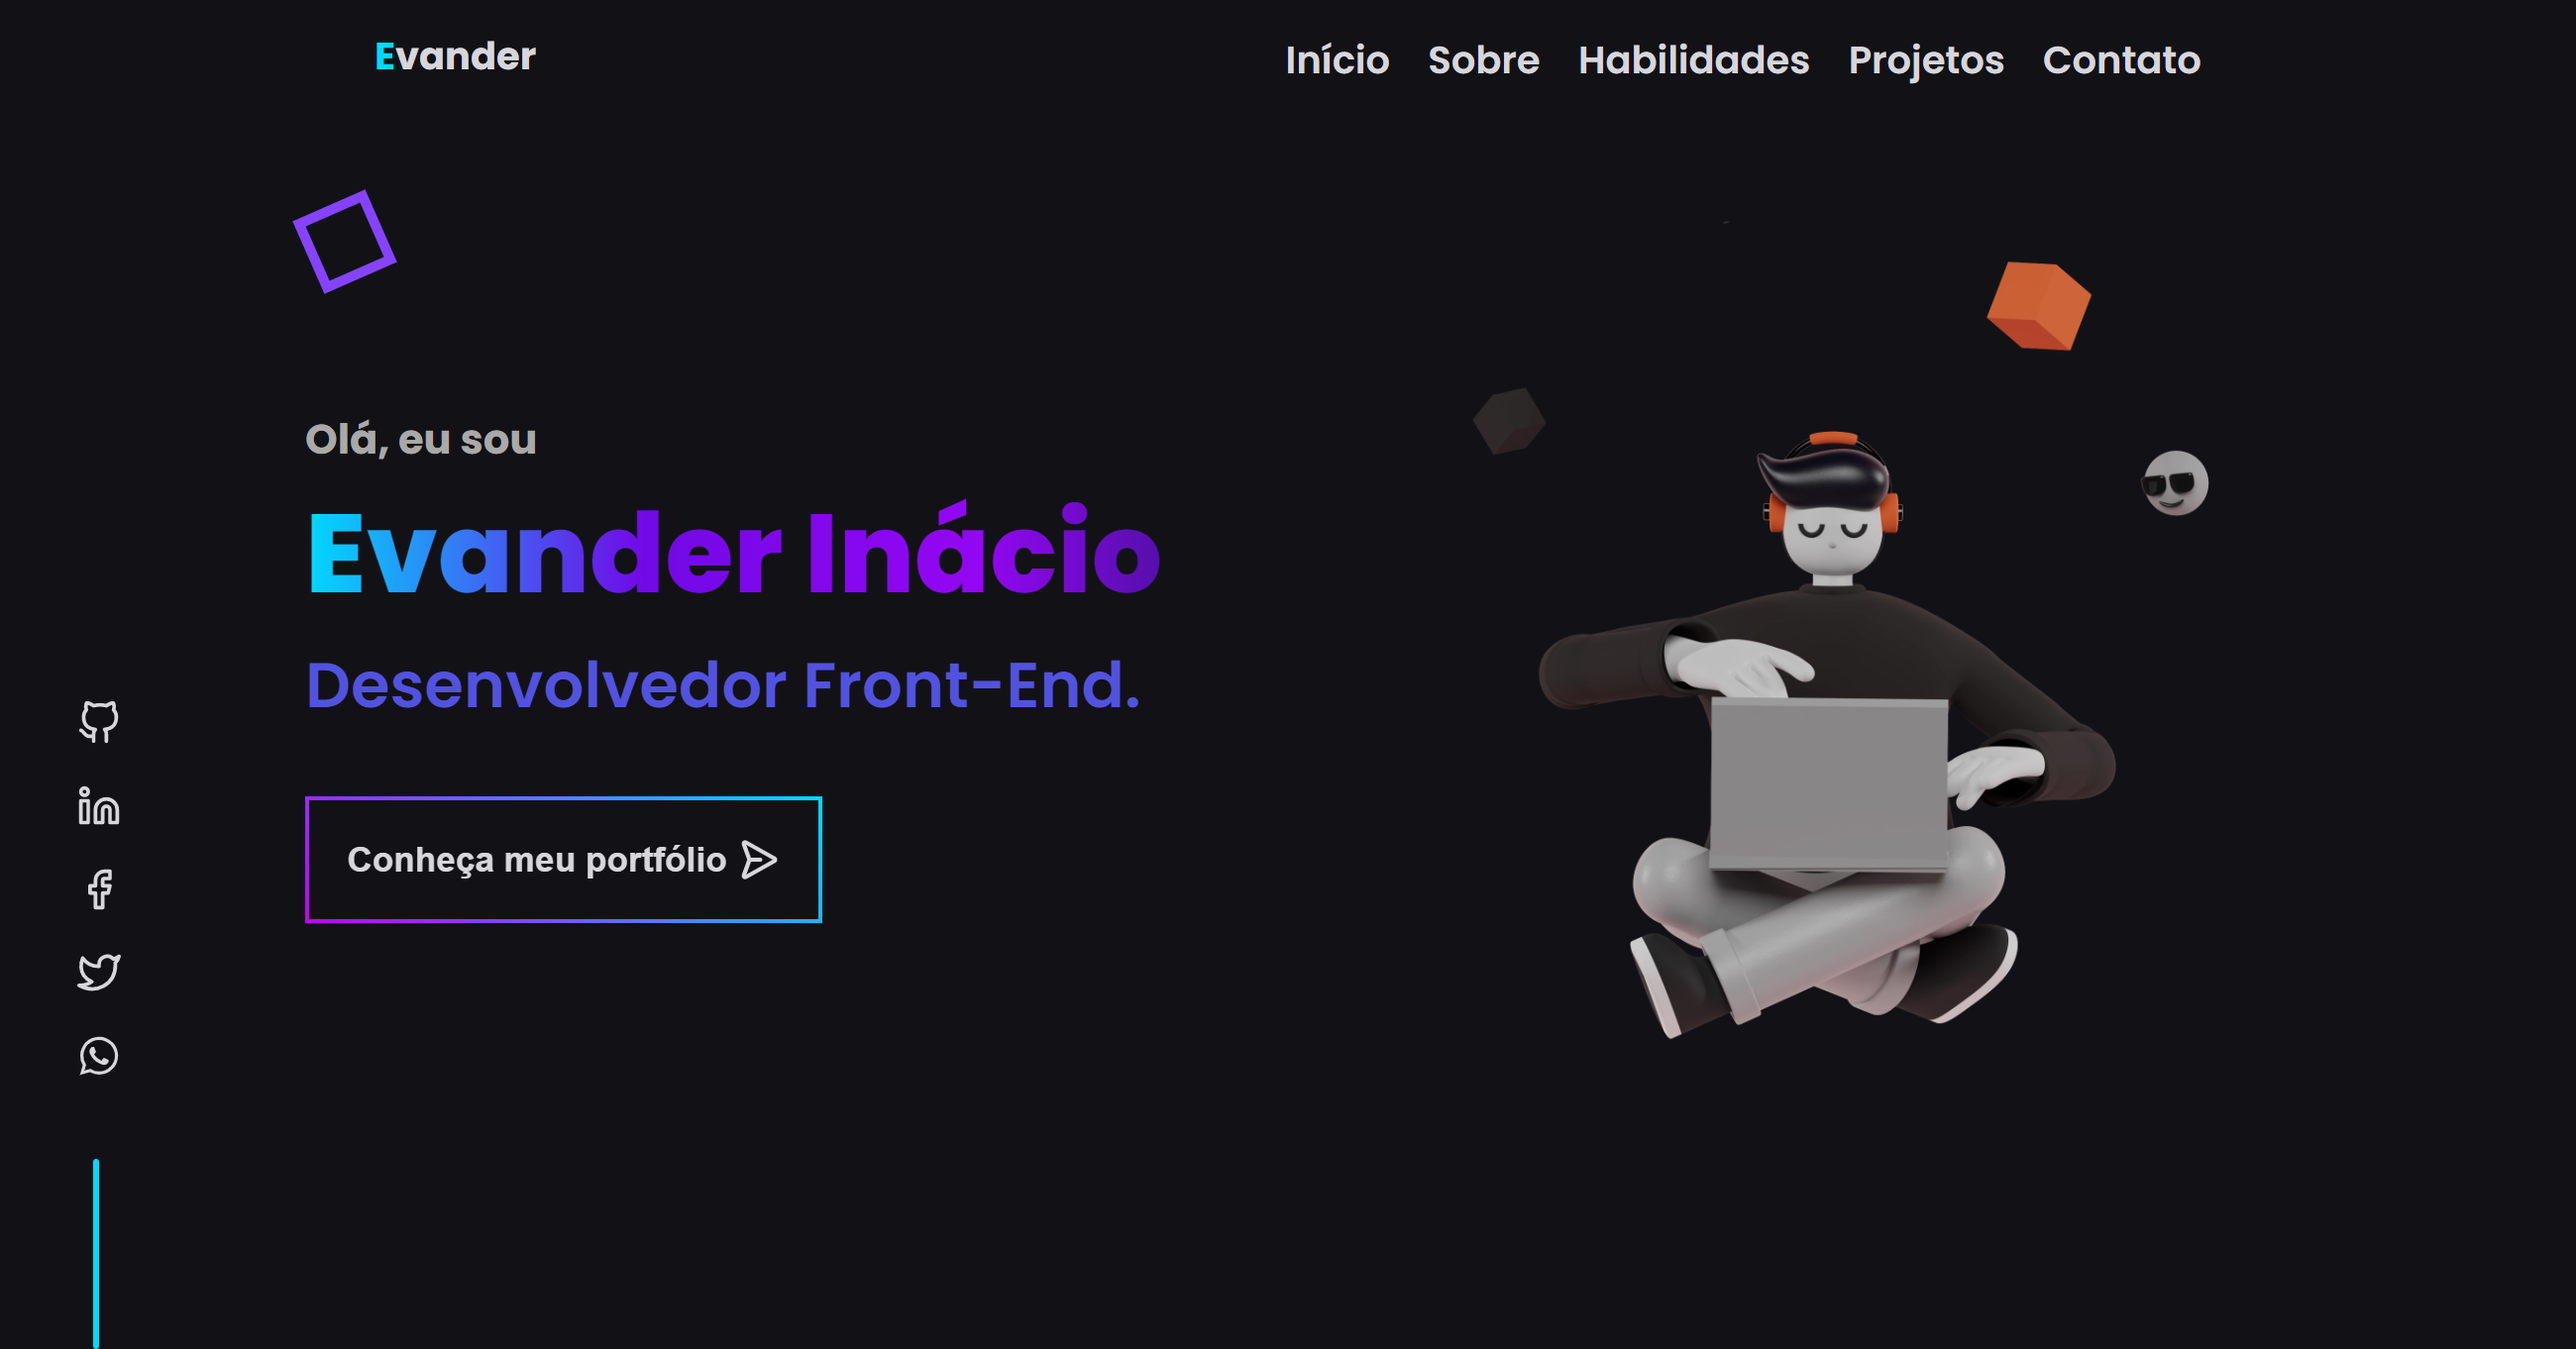
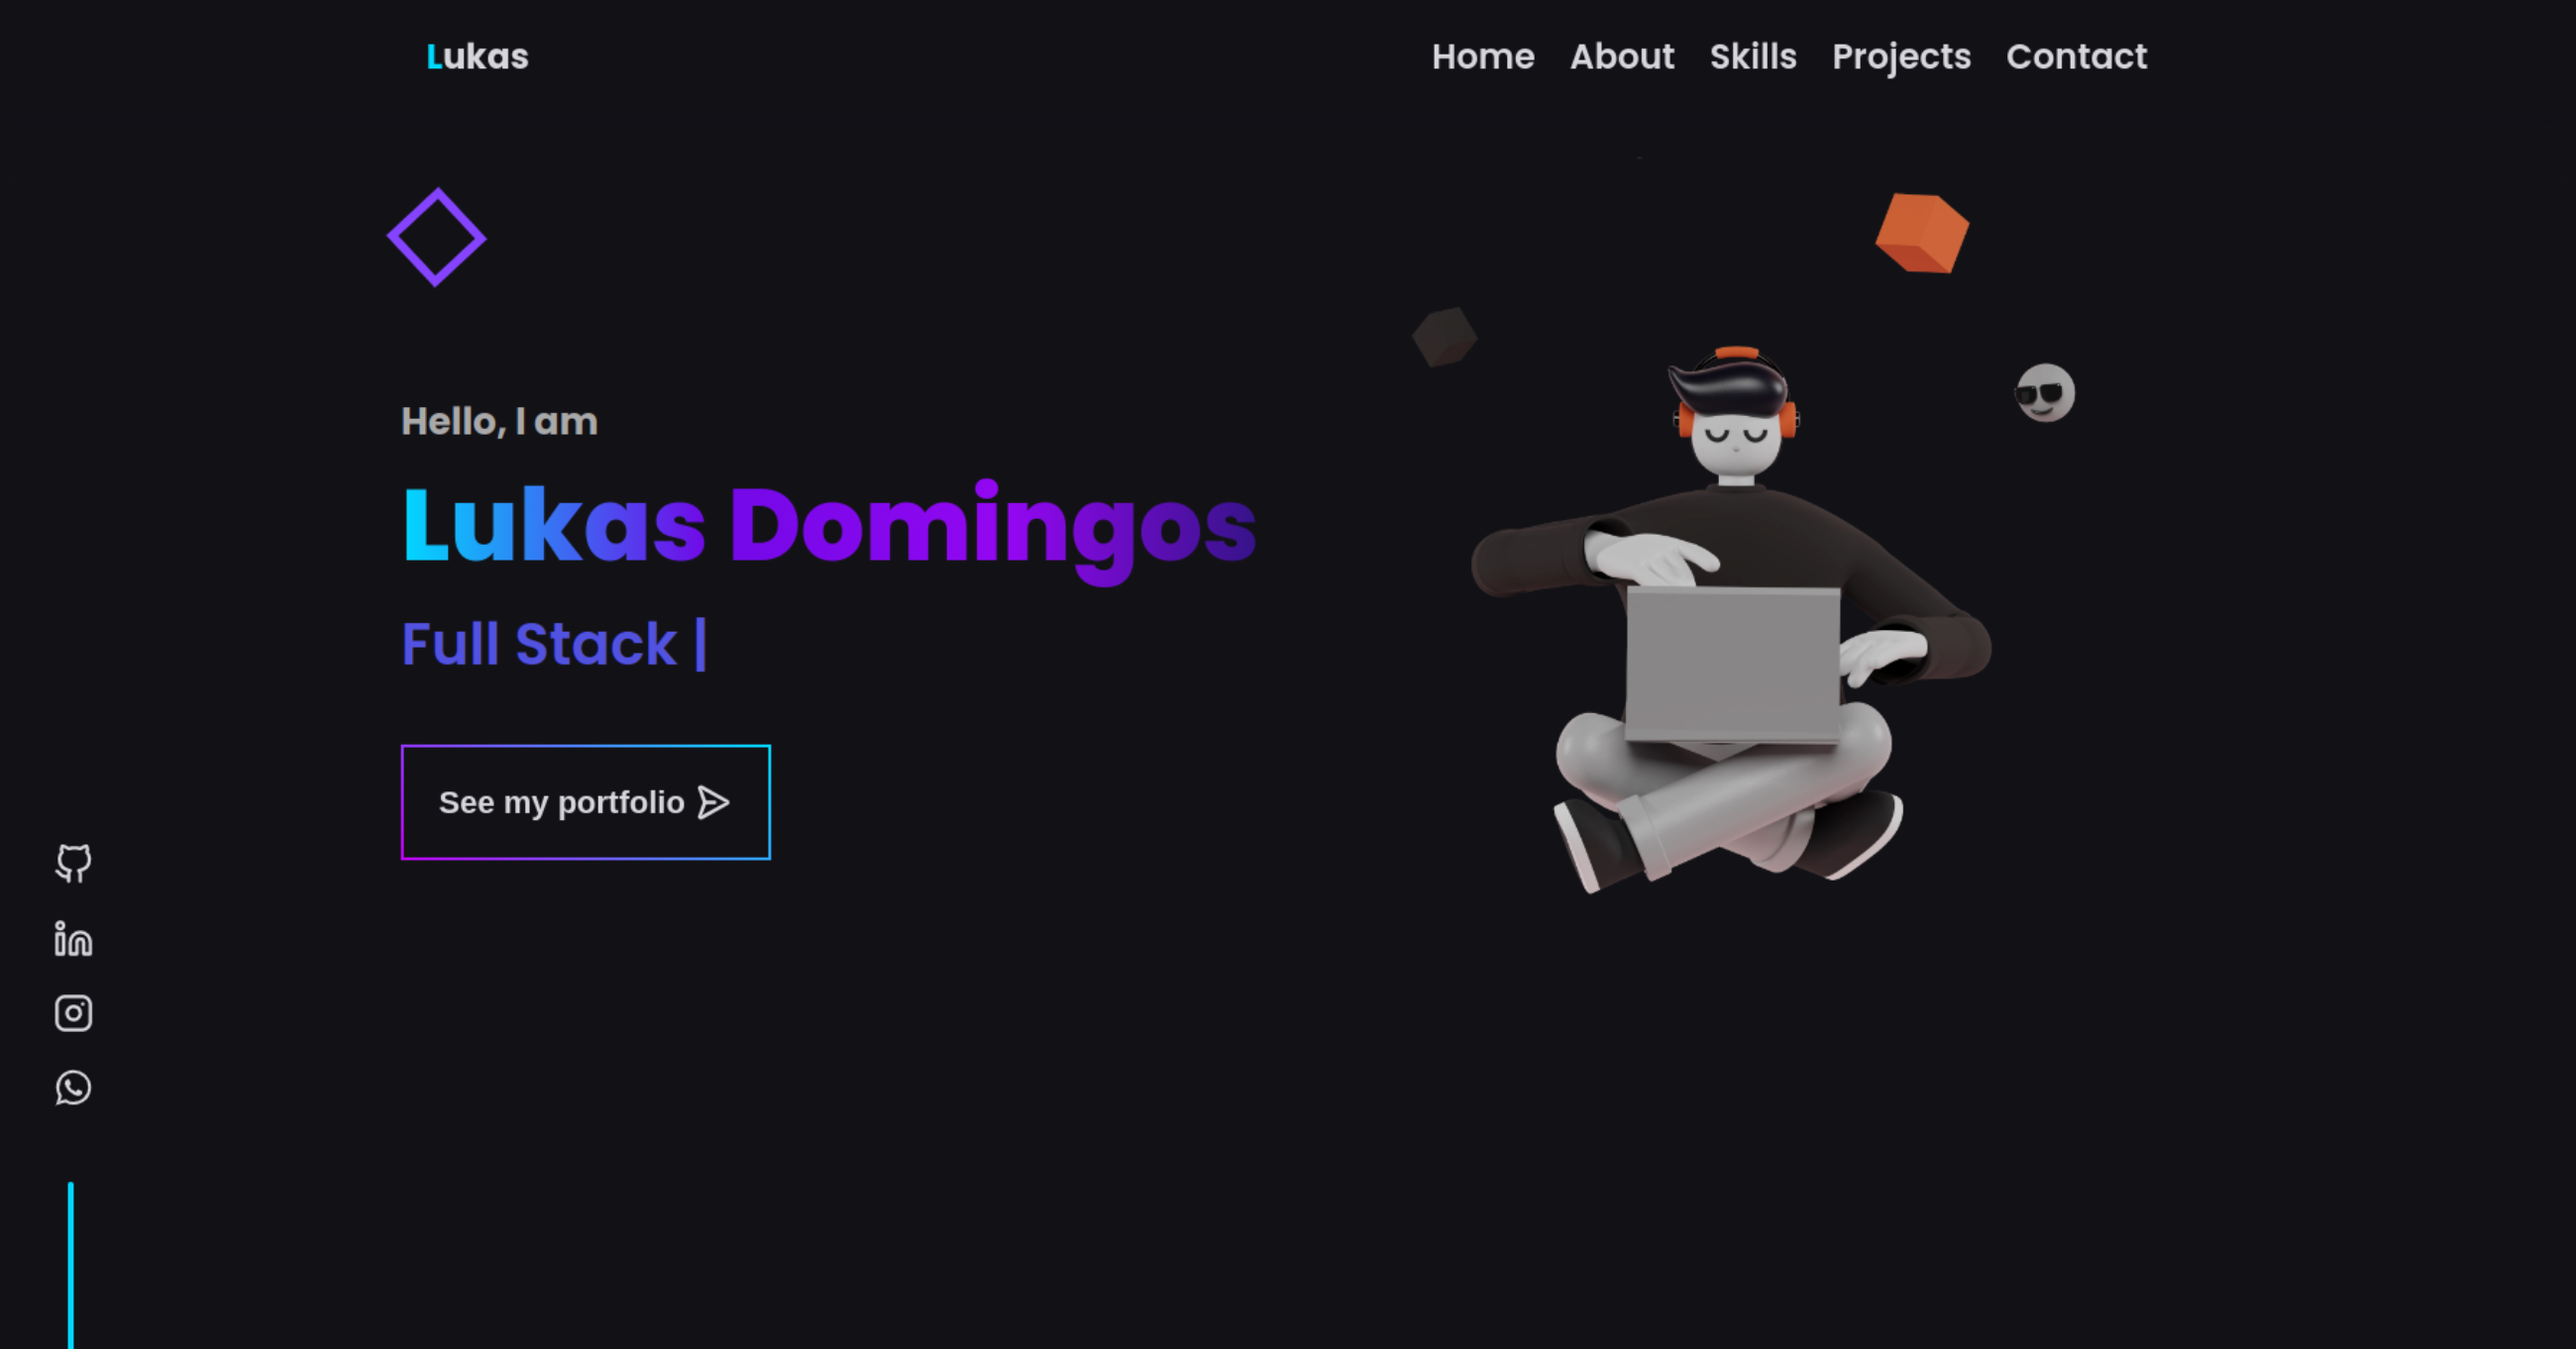
feat: up

diff --git a/src/pages/_document.tsx b/src/pages/_document.tsx
@@ -58,7 +58,7 @@ export default class MyDocument extends Document {
             rel="stylesheet"
           />
 
-          <link rel="canonical" href="https://evander.vercel.app" />
+          <link rel="canonical" href="https://lukasdomingos.vercel.app" />
           <meta name="theme-color" content="#00d9ff" />
           <meta name="author" content="Lukas Domingos" />
           <meta name="creator" content="Lukas Domingos" />
@@ -76,7 +76,7 @@ export default class MyDocument extends Document {
 
           <meta property="og:image" content="/ogimage.png" />
           <meta property="og:type" content="website" />
-          <meta property="og:url" content="https://evander.vercel.app" />
+          <meta property="og:url" content="https://lukasdomingos.vercel.app" />
           <meta name="twitter:image" content="/ogimage.png" />
 
           <link rel="icon" href="/icon.svg" />

diff --git a/src/components/Projects/projects.ts b/src/components/Projects/projects.ts
@@ -7,7 +7,7 @@ const projects = [
     type: "Website",
     icon: "/projects/portfolio/home.webp",
     github: 'https://github.com/EvanderInacio/Portfolio',
-    web: 'https://evander.vercel.app/',
+    web: 'https://lukasdomingos.vercel.app/',
     description: 'Meu portfólio criado com o objetivo de mostrar meus projetos ao longo da minha carreira.',
     tags: [
       {name: "Next JS", icon: '/skills/next-js.svg' },

diff --git a/README.md b/README.md
@@ -18,7 +18,7 @@
 
 Meu portfólio criado com o objetivo de mostrar meus projetos. 
 
-- Website: [evander.vercel.app](https://evander.vercel.app/)
+- Website: [lukasdomingos.vercel.app](https://lukasdomingos.vercel.app/)
 
 ## 🚀 Tecnologias
 
@@ -44,7 +44,7 @@ Esse projeto foi desenvolvido com as seguintes tecnologias:
   <img src="https://img.shields.io/badge/-Linkedin-000?style=for-the-badge&logo=Linkedin&logoColor=0A66C2&link=https://www.linkedin.com/in/evander-inacio"/> 
  </a>
 
- <a href="https://evander.vercel.app" alt="Portfolio">
+ <a href="https://lukasdomingos.vercel.app" alt="Portfolio">
   <img src="https://img.shields.io/badge/my_portfolio-000?style=for-the-badge&logo=ko-fi&logoColor=FFF&link=https://www.evanderinacio.com/"/>
  </a>
 
